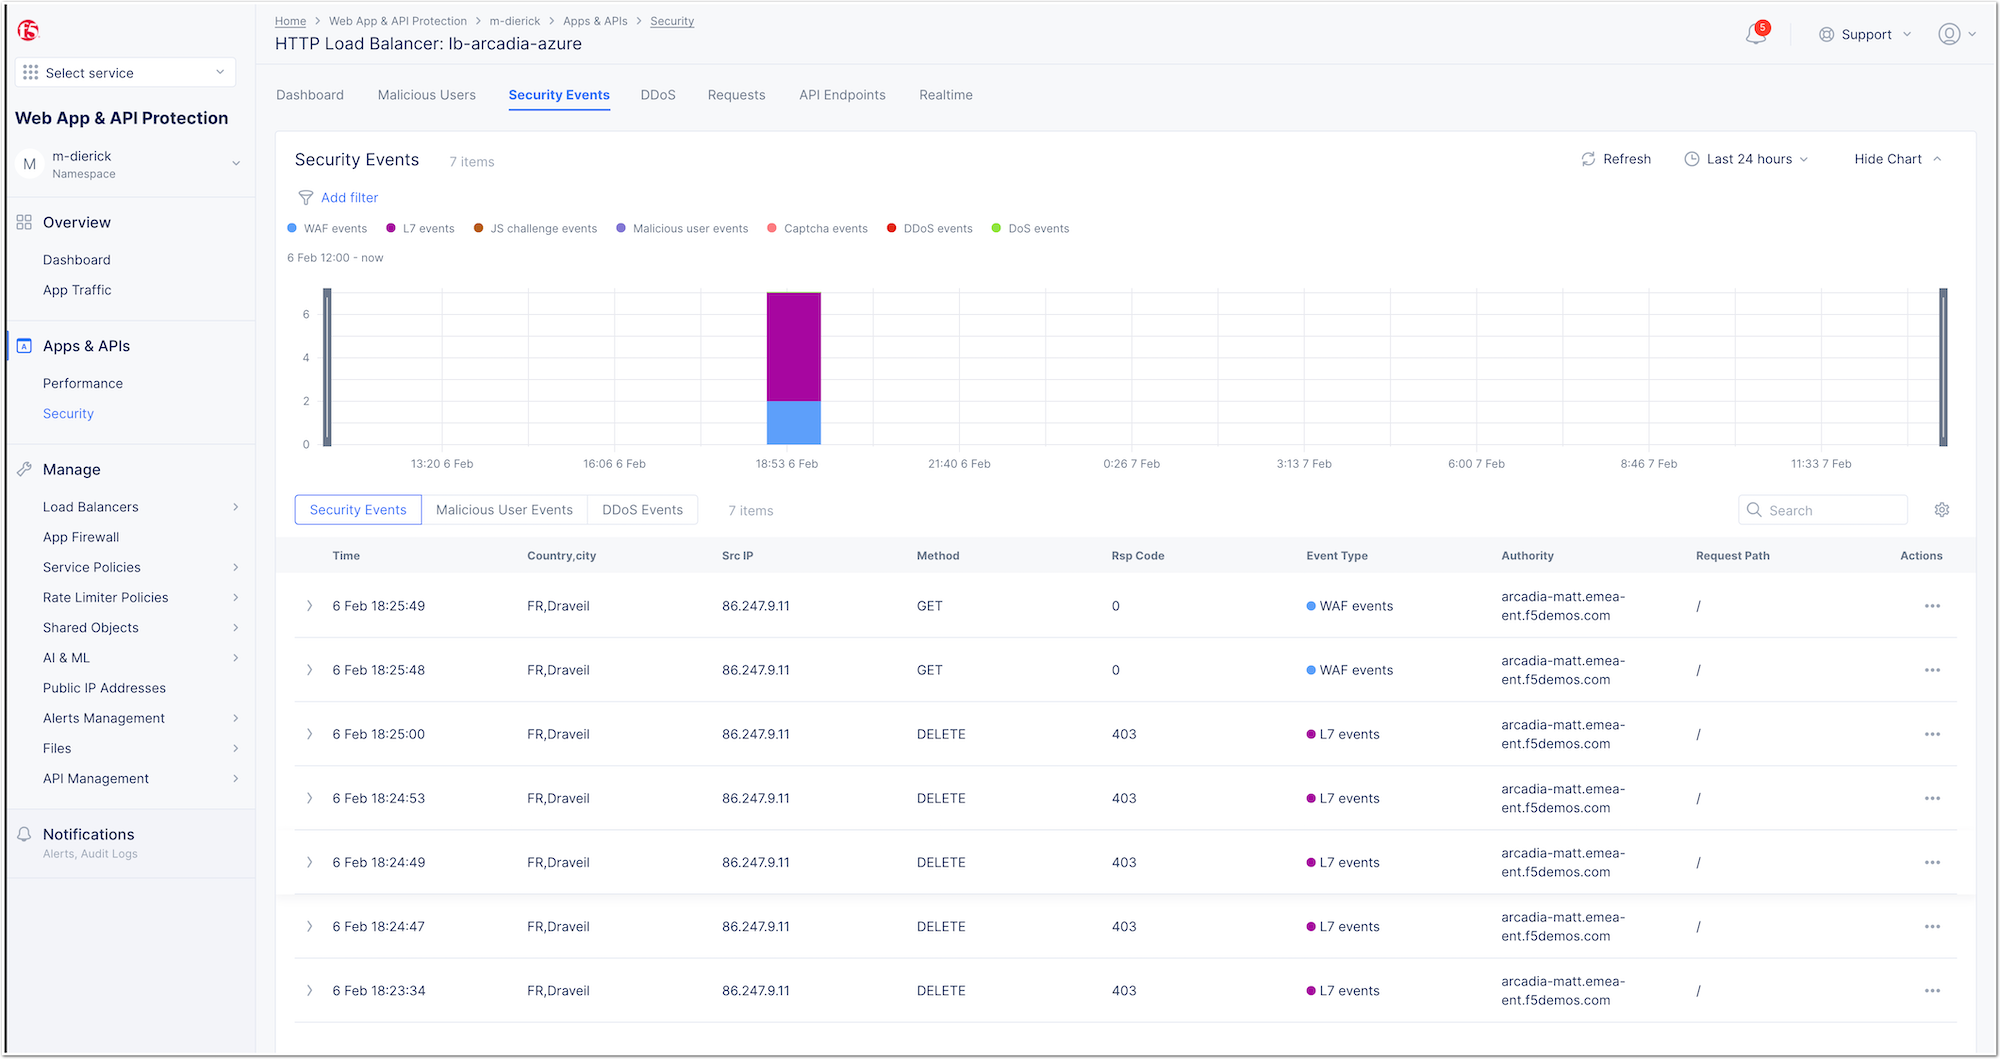
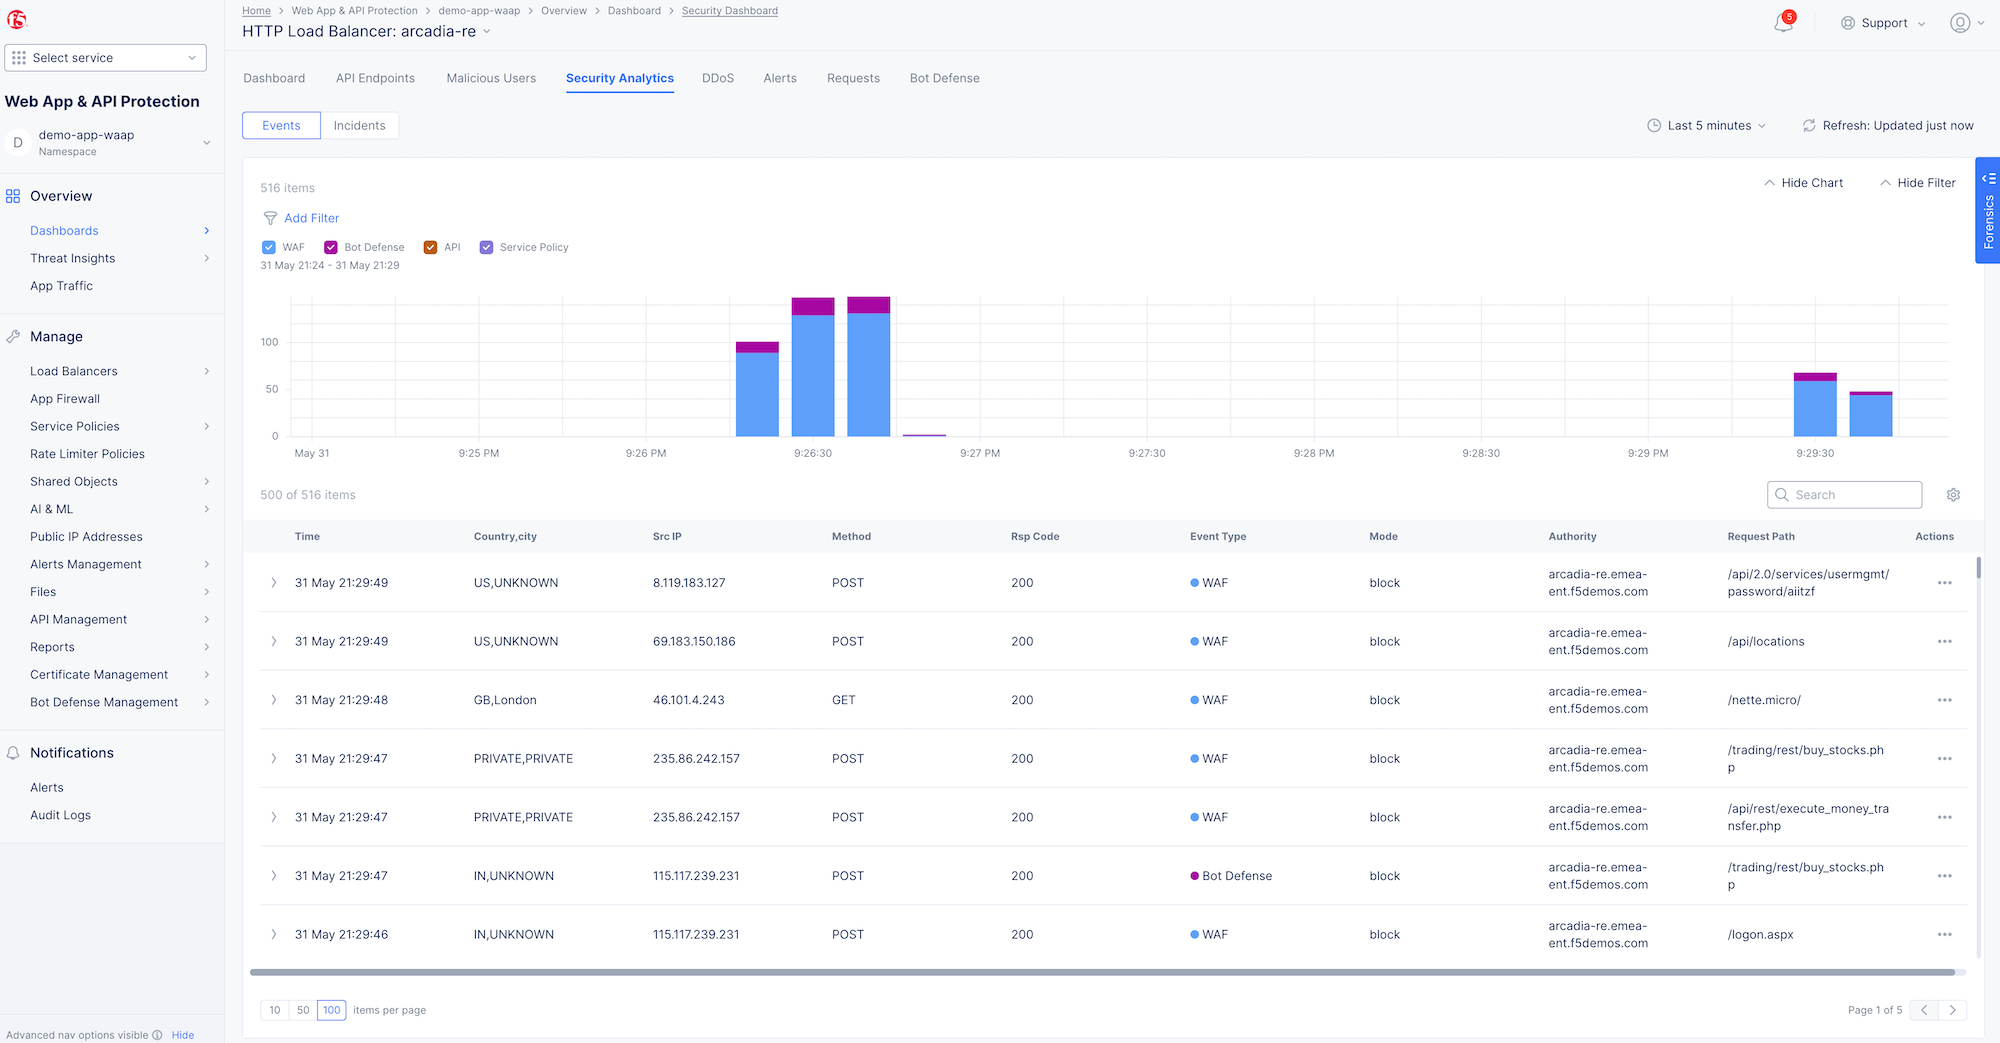
update1

diff --git a/docs/class1/module1/lab3/lab3.rst b/docs/class1/module1/lab3/lab3.rst
@@ -6,7 +6,6 @@ It is time to create your first WAAP policy and assign it on your HTTPS LB.
 Create a WAAP Policy
 ********************
 
-*  Check you are in your NameSpace
 *  Create a new WAAP policy and customize it with few settings (Menu App Firewall)
 
   .. image:: ../pictures/lab3/waap-config.png
@@ -76,7 +75,7 @@ Test you WAAP Policy
 Look at WAAP analytics in F5XC Console
 **************************************
 
-* In ``Apps & API`` menu, select your LB, and check ``Security Events``
+* In ``Overview > Dashboards > Security Dashboard`` menu, select your LB, and check ``Security Analytics``
 
 .. image:: ../pictures/lab3/analytics1.png
    :align: center

diff --git a/docs/class1/module1/lab2/lab2.rst b/docs/class1/module1/lab2/lab2.rst
@@ -14,7 +14,7 @@ For this lab, we will use the following object naming convention
    ===============    ========================================================================================
    HTTP LB              **EMEA-SE** tenant : https://arcadia-<se_name>.emea-ent.f5demos.com
                         
-                        **F5-SALES-PUBLIC** tenant : https://arcadia-<student_number>.sales-public.f5demos.com
+                        **F5-EMEA-WORKSHOP** tenant : https://arcadia-<student_name>.workshop.emea.f5se.com
 
                         **F5-CHANNEL** tenant : https://arcadia-<partner-name>.f5-channel.f5demos.com
                         

diff --git a/docs/class1/module1/module1.rst b/docs/class1/module1/module1.rst
@@ -11,9 +11,9 @@ The use case is simple:
 * The application will be available everywhere though all F5XC Regional Edge locations
 * We will apply a WAAP policy
 
-Today (Feb 2022), the worldwide POPs map is as below
+Today (May 2023), the worldwide POPs map is as below
 
-.. image:: ./pictures/map.png
+.. image:: ./pictures/map.jpeg
    :align: center
 
 **Module 1 - All sections**
